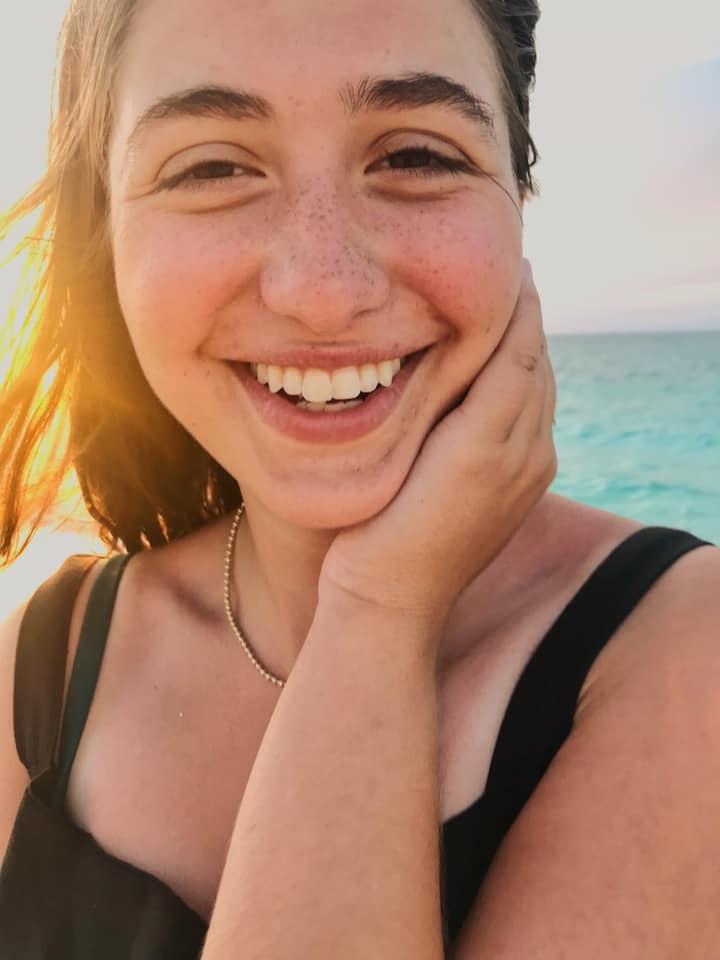
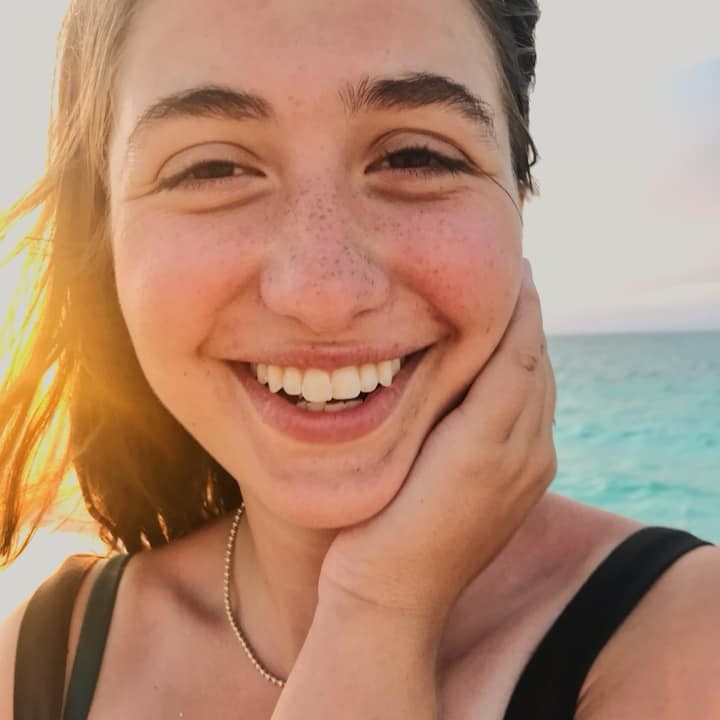
kathryn added

diff --git a/members/member-kathryn-conley.html b/members/member-kathryn-conley.html
@@ -1,0 +1,178 @@
+<!DOCTYPE html>
+<html lang="en">
+  <head>
+    <title>Williams College Ephoria Member: Kathryn Conley</title>
+    <meta charset="utf-8">
+    <meta name="viewport" content="width=device-width, initial-scale=1, shrink-to-fit=no">
+
+    <link href="https://fonts.googleapis.com/css?family=Work+Sans:100,200,300,400,700,800" rel="stylesheet">
+
+    <link rel="stylesheet" href="../css/open-iconic-bootstrap.min.css">
+    <link rel="stylesheet" href="../css/animate.css">
+
+    <link rel="stylesheet" href="../css/owl.carousel.min.css">
+    <link rel="stylesheet" href="../css/owl.theme.default.min.css">
+    <link rel="stylesheet" href="../css/magnific-popup.css">
+
+    <link rel="stylesheet" href="../css/aos.css">
+
+    <link rel="stylesheet" href="../css/ionicons.min.css">
+
+    <link rel="stylesheet" href="../css/bootstrap-datepicker.css">
+    <link rel="stylesheet" href="../css/jquery.timepicker.css">
+
+
+    <link rel="stylesheet" href="../css/flaticon.css">
+    <link rel="stylesheet" href="../css/icomoon.css">
+    <link rel="stylesheet" href="../css/style.css">
+  </head>
+  <body>
+
+    <nav class="navbar navbar-expand-lg navbar-dark ftco_navbar bg-dark ftco-navbar-light" id="ftco-navbar">
+      <div class="container">
+        <a class="navbar-brand" href="../index.html">Williams College Ephoria</a>
+        <button class="navbar-toggler" type="button" data-toggle="collapse" data-target="#ftco-nav" aria-controls="ftco-nav" aria-expanded="false" aria-label="Toggle navigation">
+          <span class="oi oi-menu"></span> Menu
+        </button>
+
+        <div class="collapse navbar-collapse" id="ftco-nav">
+          <ul class="navbar-nav ml-auto">
+            <li class="nav-item"><a href="../index.html" class="nav-link">Home</a></li>
+            <li class="nav-item"><a href="../about.html" class="nav-link">About</a></li>
+            <li class="nav-item"><a href="../portfolio.html" class="nav-link">Portfolio</a></li>
+            <li class="nav-item dropdown">
+              <a class="nav-link dropdown-toggle" href="room.html" id="dropdown04" data-toggle="dropdown" aria-haspopup="true" aria-expanded="false">Members</a>
+                <div class="dropdown-menu" aria-labelledby="dropdown04">
+                  <a class="dropdown-item" href="../current-members.html">Current Members</a>
+                  <a class="dropdown-item" href="../all-members.html">All Members</a>
+                </div>
+            </li>
+            <li class="nav-item"><a href="../contact.html" class="nav-link">Contact</a></li>
+          </ul>
+        </div>
+      </div>
+    </nav>
+    <!-- END nav -->
+
+    <section class="home-slider ftco-degree-bg">
+      <div class="slider-item bread-wrap" style="background-image: url('../images/bg_1.jpg');" data-stellar-background-ratio="0.5">
+        <div class="overlay"></div>
+        <div class="container">
+          <div class="row slider-text justify-content-center align-items-center">
+            <div class="col-md-10 col-sm-12 ftco-animate mb-4 text-center">
+              <p class="breadcrumbs"><span class="mr-2"><a href="../current-members.html">Current Members</a></span> <span class="mr-2"><a href="../all-members.html">All Members</a></span> <span class="mr-2">Kathryn Conley</span>
+              <h1 class="mb-3">Kathryn Conley '23</h1>
+            </div>
+          </div>
+        </div>
+      </div>
+    </section>
+
+<!-- START header photo -->
+    <section class="ftco-section-featured ftco-animate">
+      <div class="container">
+        <div class="row">
+          <div class="col-md-12">
+                  <img src="../images/kathryn-banner.JPG" class="img-fluid" alt="">
+          </div>
+        </div>
+      </div>
+    </section>
+<!-- END header photo -->
+
+    <section class="ftco-section ftco-degree-bg">
+      <div class="container">
+        <div class="row">
+          <div class="col-md-8 ftco-animate">
+            <h2 class="mb-3 mt-5">Biography</h2>
+            <p>Kathryn probably has more plants that friends, but that's just the way she likes it. When she's not watering her botanical army, you can find her experimenting with new recipes in the kitchen, waking up ridiculously early to secure the prime Goodrich booth, or convincing as many people as she can to jump in cold water with her. She hasn't decided what to major in just yet, because quite honestly, she still has no idea what to do with her life.</p>
+              <div class="about-author d-flex p-5 bg-light">
+              <div class="bio align-self-md-center mr-5">
+                <img src="../images/kathryn-contact.JPG" alt="Image placeholder" class="img-fluid mb-4">
+              </div>
+              <div class="desc align-self-md-center">
+                <h3>Contact Information</h3>
+                <p>kmc9@williams.edu</p>
+              </div>
+            </div>
+            <h2 class="mb-3 mt-5">Ephoria Highlights</h2>
+            <h2 class="mb-3 mt-5">Solos</h2>
+            <iframe width="560" height="315" src="https://www.youtube.com/embed/KOcMQaalCF4" frameborder="0" allow="accelerometer; autoplay; encrypted-media; gyroscope; picture-in-picture" allowfullscreen></iframe>
+            <iframe width="560" height="315" src="https://www.youtube.com/embed/zniq5ms5Upk" frameborder="0" allow="accelerometer; autoplay; encrypted-media; gyroscope; picture-in-picture" allowfullscreen></iframe>
+            <iframe width="560" height="315" src="https://www.youtube.com/embed/CQ-POQKg7GY" frameborder="0" allow="accelerometer; autoplay; encrypted-media; gyroscope; picture-in-picture" allowfullscreen></iframe>
+            <iframe width="560" height="315" src="https://www.youtube.com/embed/3U0CSxs9Mpg" frameborder="0" allow="accelerometer; autoplay; encrypted-media; gyroscope; picture-in-picture" allowfullscreen></iframe>
+          </div> <!-- .col-md-8 -->
+      </div>
+    </section> <!-- .section -->
+
+    <footer class="ftco-footer ftco-bg-dark ftco-section">
+      <div class="container">
+        <div class="row mb-5">
+          <div class="col-md">
+            <div class="ftco-footer-widget mb-4">
+              <h2 class="ftco-heading-2">Williams College Ephoria</h2>
+              <p>The oldest female-voiced singing group at Williams College.</p>
+              <ul class="ftco-footer-social list-unstyled float-md-left float-lft">
+                <li class="ftco-animate"><a href="https://www.facebook.com/Ephoria-228514433827465/"><span class="icon-facebook"></span></a></li>
+                <li class="ftco-animate"><a href="https://www.instagram.com/williamscollegeephoria/"><span class="icon-instagram"></span></a></li>
+              </ul>
+            </div>
+          </div>
+          <div class="col-md">
+             <div class="ftco-footer-widget mb-4">
+              <h2 class="ftco-heading-2">Quick Links</h2>
+              <ul class="list-unstyled">
+                <li><a href="../index.html" class="py-2 d-block">Home</a></li>
+                <li><a href="../about.html" class="py-2 d-block">About</a></li>
+                <li><a href="../portfolio.html" class="py-2 d-block">Portfolio</a></li>
+                <li><a href="../current-members.html" class="py-2 d-block">Members</a></li>
+                <li><a href="../contact.html" class="py-2 d-block">Contact</a></li>
+              </ul>
+            </div>
+          </div>
+          <div class="col-md">
+             <div class="ftco-footer-widget mb-4">
+              <h2 class="ftco-heading-2">Contact Information</h2>
+              <ul class="list-unstyled">
+                <li><a href="#" class="py-2 d-block">880 Main St, Williamstown, MA 01267</a></li>
+                <li><a href="#" class="py-2 d-block">+1 425 691 0558</a></li>
+                <li><a href="#" class="py-2 d-block">ephoria13@gmail.com</a></li>
+              </ul>
+            </div>
+          </div>
+        </div>
+        <div class="row">
+          <div class="col-md-12 text-center">
+            <p><!-- Link back to Colorlib can't be removed. Template is licensed under CC BY 3.0. -->
+  Copyright Ephoria &copy;<script>document.write(new Date().getFullYear());</script> All rights reserved | This template is made with <i class="icon-heart" aria-hidden="true"></i> by <a href="https://colorlib.com" target="_blank">Colorlib</a>
+  <!-- Link back to Colorlib can't be removed. Template is licensed under CC BY 3.0. --></p>
+          </div>
+        </div>
+      </div>
+    </footer>
+
+
+
+  <!-- loader -->
+  <div id="ftco-loader" class="show fullscreen"><svg class="circular" width="48px" height="48px"><circle class="path-bg" cx="24" cy="24" r="22" fill="none" stroke-width="4" stroke="#eeeeee"/><circle class="path" cx="24" cy="24" r="22" fill="none" stroke-width="4" stroke-miterlimit="10" stroke="#F96D00"/></svg></div>
+
+
+  <script src="../js/jquery.min.js"></script>
+  <script src="../js/jquery-migrate-3.0.1.min.js"></script>
+  <script src="../js/popper.min.js"></script>
+  <script src="../js/bootstrap.min.js"></script>
+  <script src="../js/jquery.easing.1.3.js"></script>
+  <script src="../js/jquery.waypoints.min.js"></script>
+  <script src="../js/jquery.stellar.min.js"></script>
+  <script src="../js/owl.carousel.min.js"></script>
+  <script src="../js/jquery.magnific-popup.min.js"></script>
+  <script src="../js/aos.js"></script>
+  <script src="../js/jquery.animateNumber.min.js"></script>
+  <script src="../js/bootstrap-datepicker.js"></script>
+  <script src="../js/jquery.timepicker.min.js"></script>
+  <script src="https://maps.googleapis.com/maps/api/js?key=AIzaSyBVWaKrjvy3MaE7SQ74_uJiULgl1JY0H2s&sensor=false"></script>
+  <script src="../js/google-map.js"></script>
+  <script src="../js/main.js"></script>
+
+  </body>
+</html>

diff --git a/all-members.html b/all-members.html
@@ -95,6 +95,16 @@
           </div>
           <div class="col-md-4 ftco-animate">
             <div class="blog-entry" data-aos-delay="100">
+              <a href="members/member-kathryn-conley.html" class="block-20" style="background-image: url('images/kathryn-list.JPG');">
+              </a>
+              <div class="text p-4">
+                <h3 class="heading"><a href="members/member-kathryn-conley.html">Kathryn Conley '23</a></h3>
+                <p>Social Chair '20-'21</p>
+              </div>
+            </div>
+          </div>
+          <div class="col-md-4 ftco-animate">
+            <div class="blog-entry" data-aos-delay="100">
               <a href="members/member-ally-cruz.html" class="block-20" style="background-image: url('images/ally1.jpg');">
               </a>
               <div class="text p-4">

diff --git a/current-members.html b/current-members.html
@@ -144,7 +144,16 @@
         </div>
       </div>
     </section>
-
+    <div class="col-md-4 ftco-animate">
+      <div class="blog-entry" data-aos-delay="100">
+        <a href="members/member-kathryn-conley.html" class="block-20" style="background-image: url('images/kathryn-list.JPG');">
+        </a>
+        <div class="text p-4">
+          <h3 class="heading"><a href="members/member-kathryn-conley.html">Kathryn Conley '23</a></h3>
+          <p>Social Chair</p>
+        </div>
+      </div>
+    </div>
     <footer class="ftco-footer ftco-bg-dark ftco-section">
       <div class="container">
         <div class="row mb-5">
